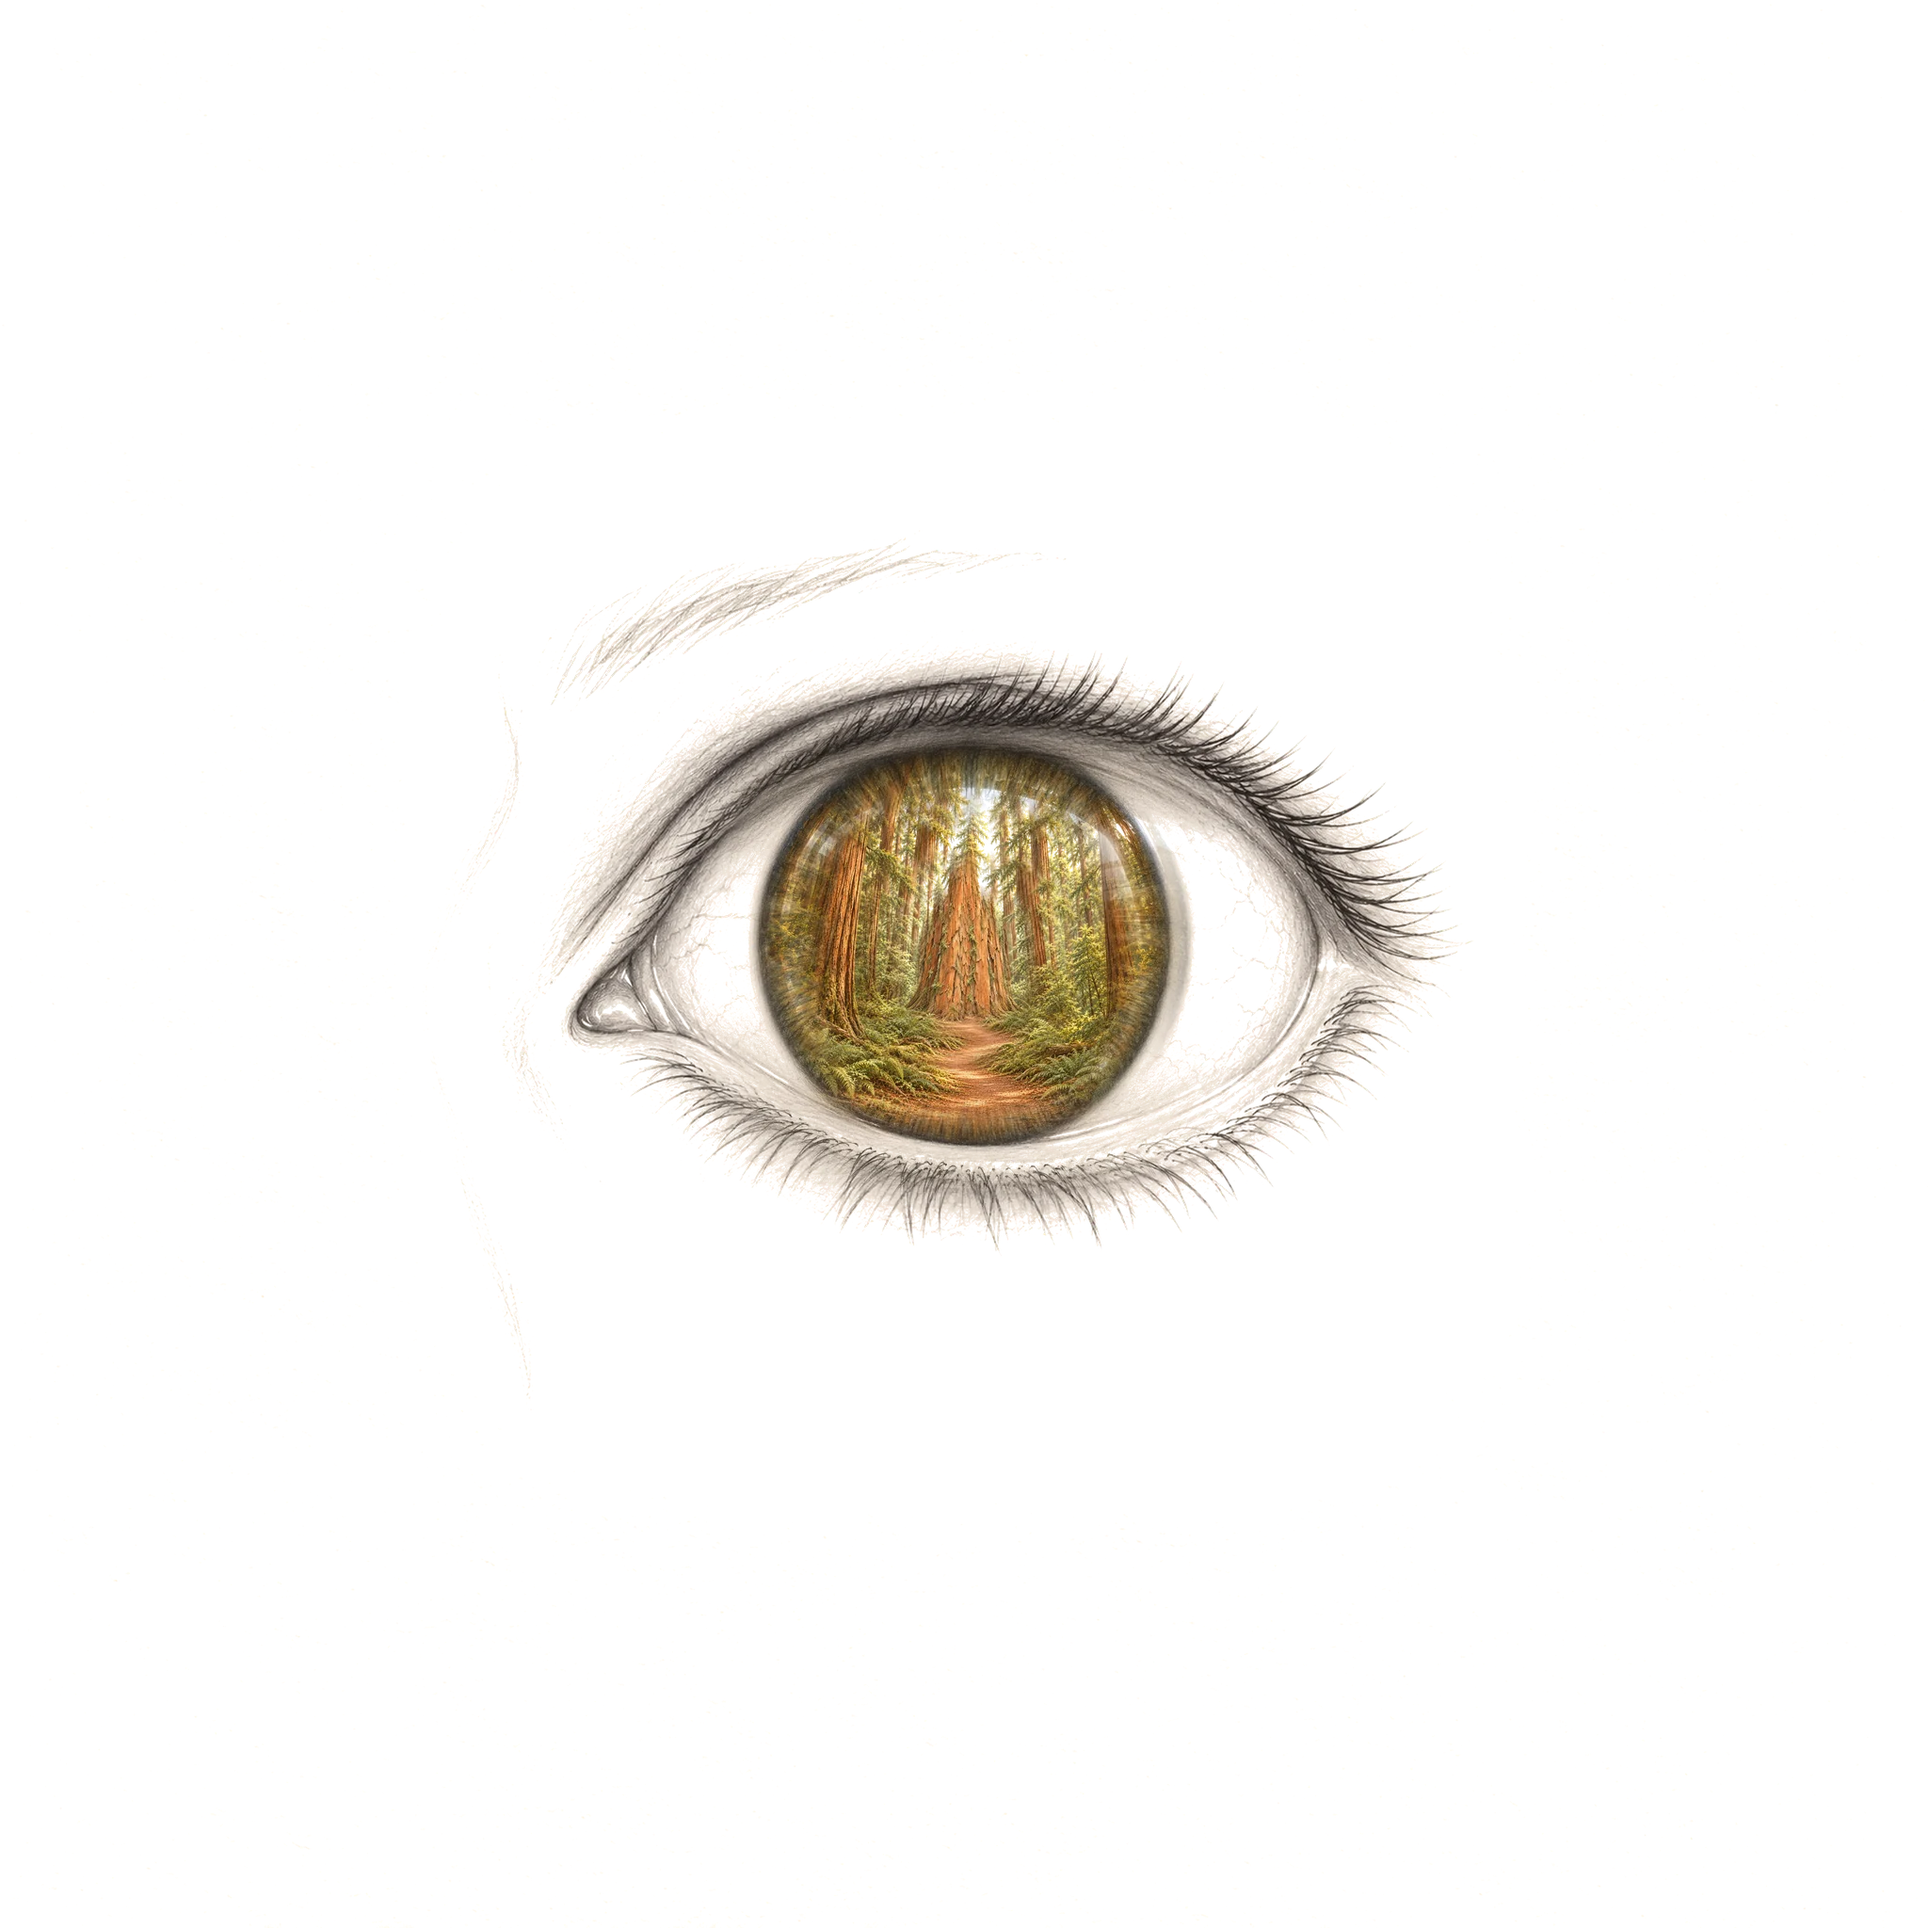
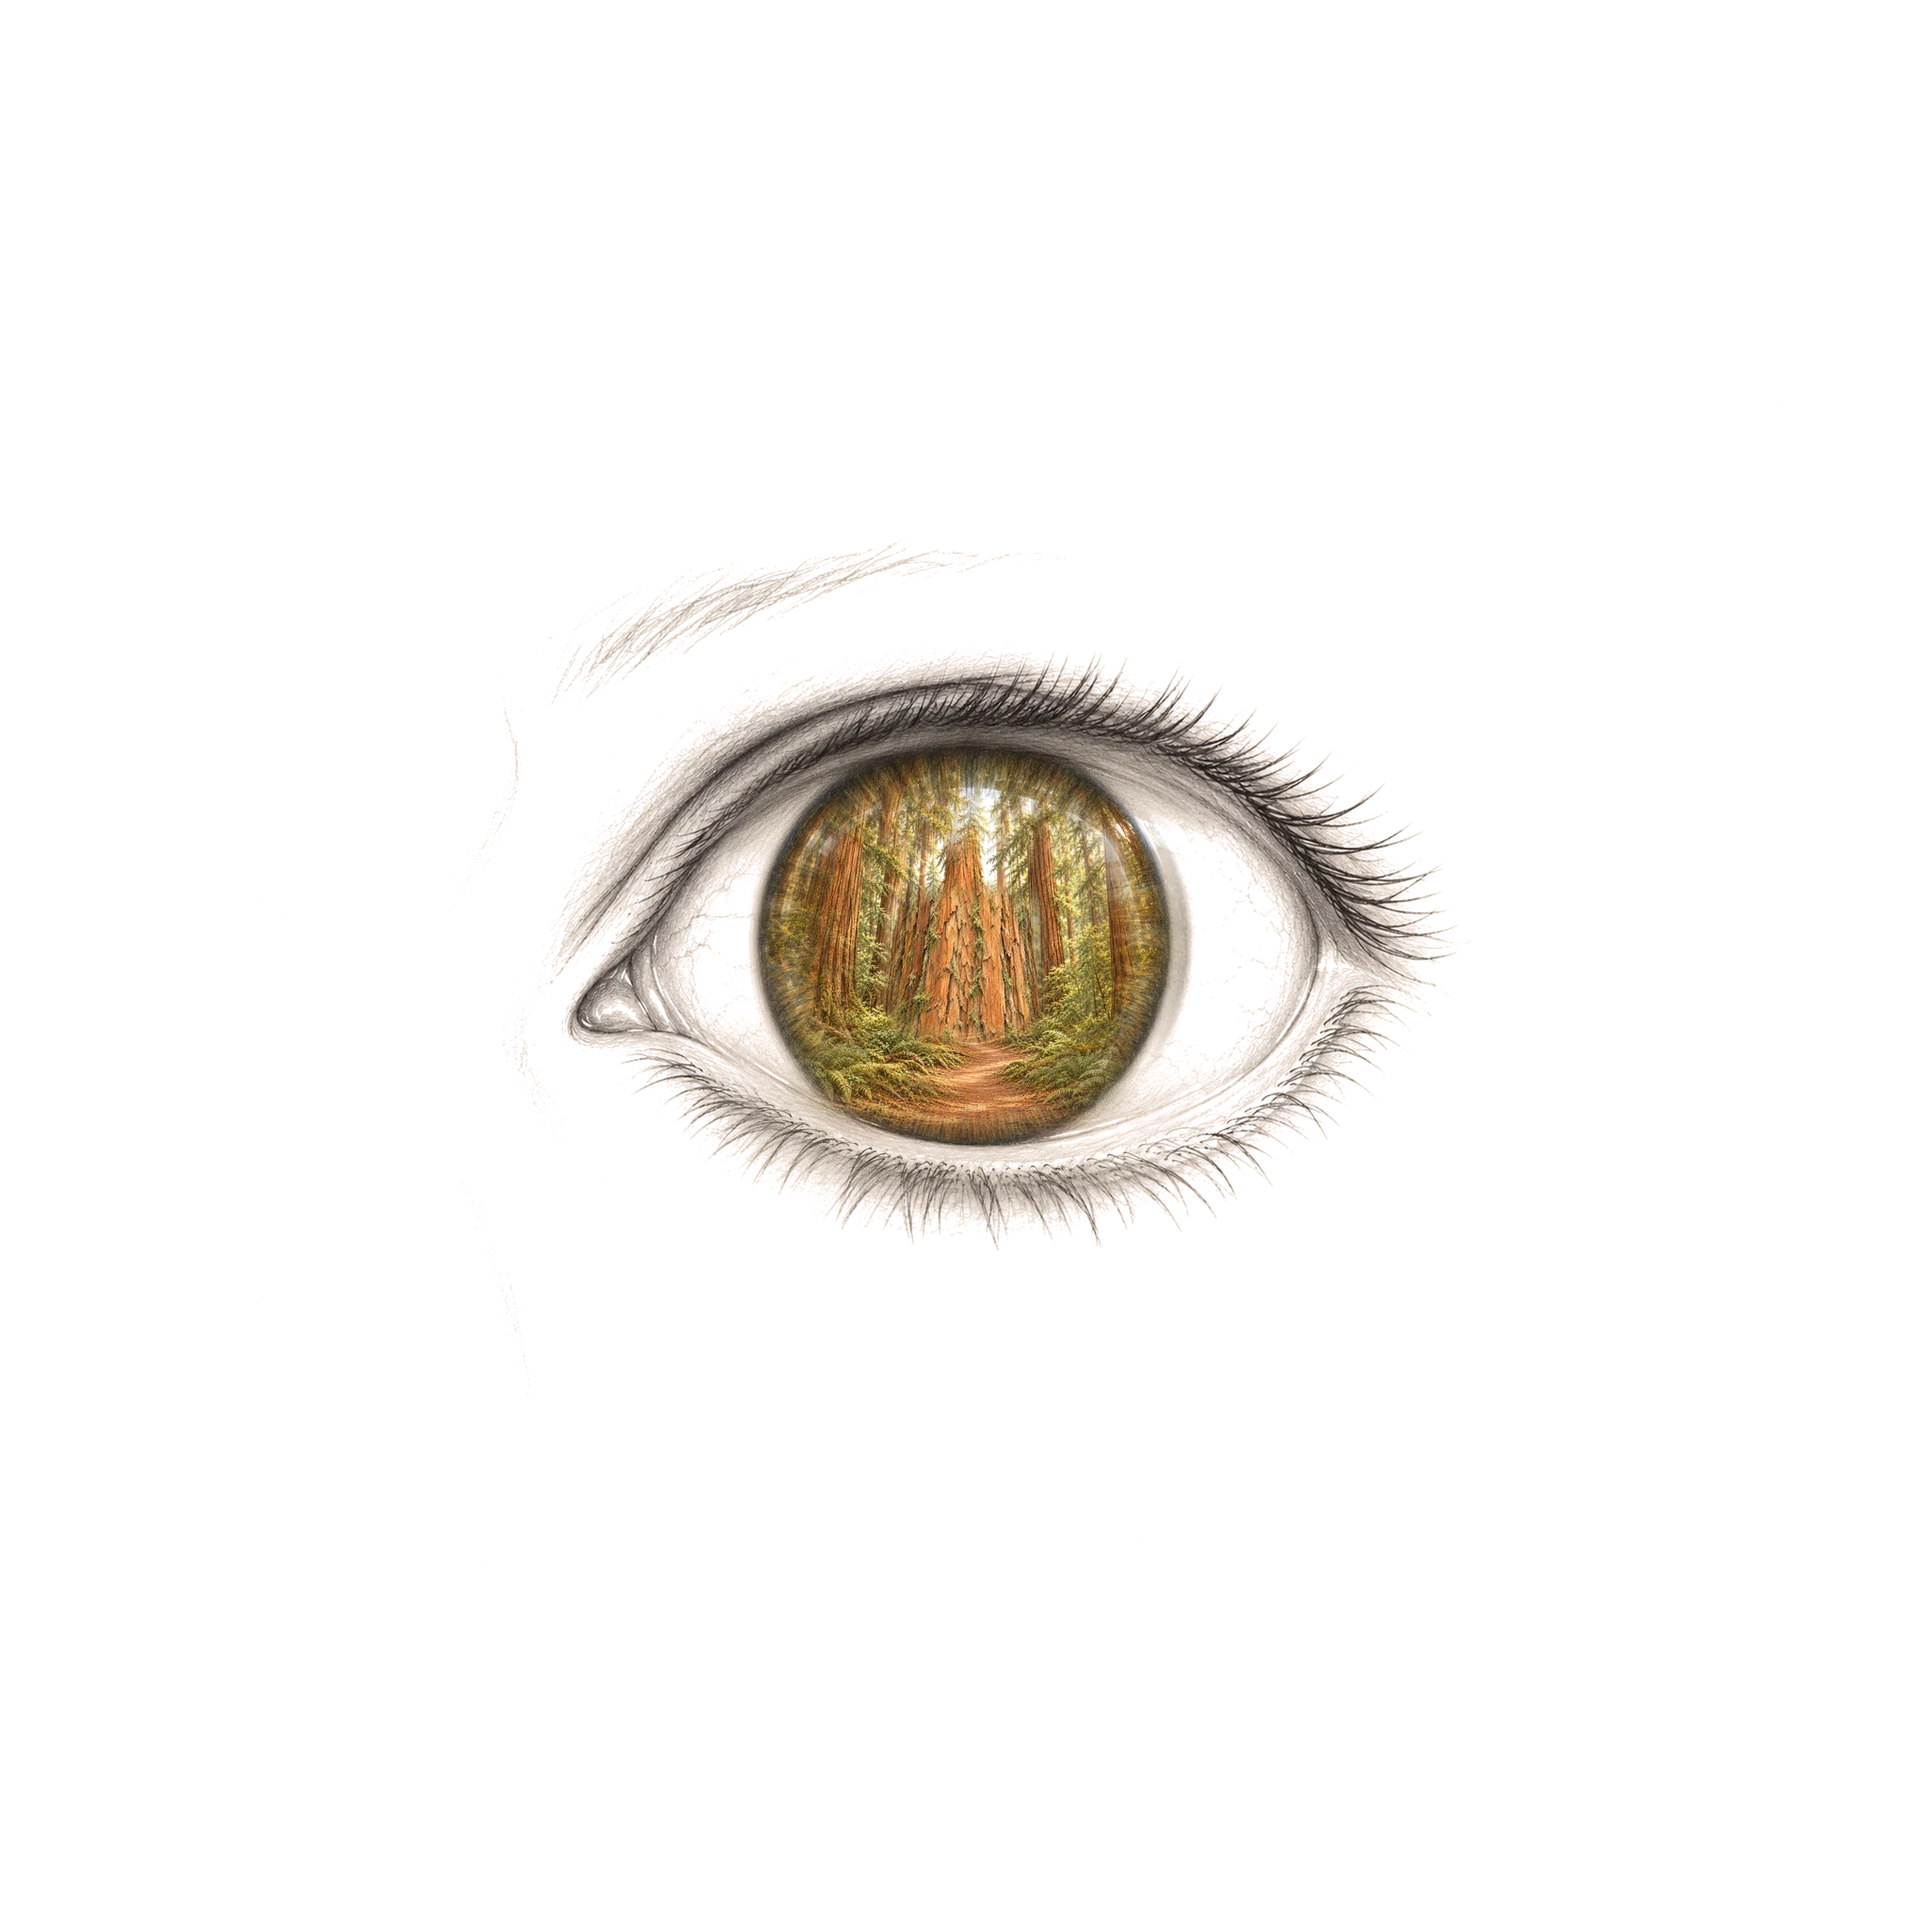
Sharpen the forest eye close zoom

Changed region(s): [[0.4062, 0.4062, 0.5938, 0.5938]]

diff --git a/styles.css b/styles.css
@@ -93,25 +93,24 @@ h1 em { color: var(--signal); font-weight: 400; }
   will-change: transform;
   animation: forest-eye-zoom 18s linear infinite alternate;
 }
-.forest-eye-art > picture, .forest-eye-art img { display: block; width: 100%; height: 100%; }
-.forest-eye-art img { object-fit: cover; }
+.forest-eye-art > img { display: block; width: 100%; height: 100%; object-fit: cover; }
 .eye-glass { position: absolute; inset: 0; width: 100%; height: 100%; opacity: 0; mix-blend-mode: screen; pointer-events: none; animation: glass-focus 18s linear infinite alternate; }
 .eye-glass .glass-wash { fill: url(#cornea-wash); }
 .eye-glass .glass-arc { fill: none; stroke: rgba(255,255,255,.78); stroke-width: 13; stroke-linecap: round; filter: blur(.6px); }
 .eye-glass .glass-flare { fill: url(#cornea-flare); filter: blur(2px); }
 .eye-glass .glass-glint { fill: rgba(255,255,255,.82); filter: blur(.4px); }
 @keyframes forest-eye-zoom {
-  0%, 8% { transform: scale(16); }
-  16% { transform: scale(12.9); }
-  24% { transform: scale(10.4); }
-  32% { transform: scale(8.4); }
-  40% { transform: scale(6.7); }
-  48% { transform: scale(5.4); }
-  56% { transform: scale(4.3); }
-  64% { transform: scale(3.4); }
-  72% { transform: scale(2.65); }
-  80% { transform: scale(1.95); }
-  88% { transform: scale(1.38); }
+  0%, 12% { transform: scale(20); }
+  20% { transform: scale(15.6); }
+  28% { transform: scale(12.2); }
+  36% { transform: scale(9.5); }
+  44% { transform: scale(7.4); }
+  52% { transform: scale(5.8); }
+  60% { transform: scale(4.5); }
+  68% { transform: scale(3.5); }
+  76% { transform: scale(2.7); }
+  84% { transform: scale(2); }
+  90% { transform: scale(1.45); }
   94%, 100% { transform: scale(1); }
 }
 @keyframes glass-focus {

diff --git a/index.html b/index.html
@@ -59,10 +59,7 @@
       <div class="field" aria-hidden="true">
         <div class="forest-eye-camera">
           <div class="forest-eye-art">
-            <picture>
-              <source media="(max-width: 760px)" srcset="/assets/forest-eye-deep-4096.webp">
-              <img src="/assets/forest-eye-deep-master.webp" alt="" width="8192" height="8192" decoding="async" fetchpriority="high">
-            </picture>
+            <img src="/assets/forest-eye-deep-master.webp" alt="" width="8192" height="8192" decoding="async" fetchpriority="high">
             <svg class="eye-glass" viewBox="0 0 640 640" aria-hidden="true">
               <defs>
                 <radialGradient id="cornea-wash" cx="38%" cy="31%" r="67%">
